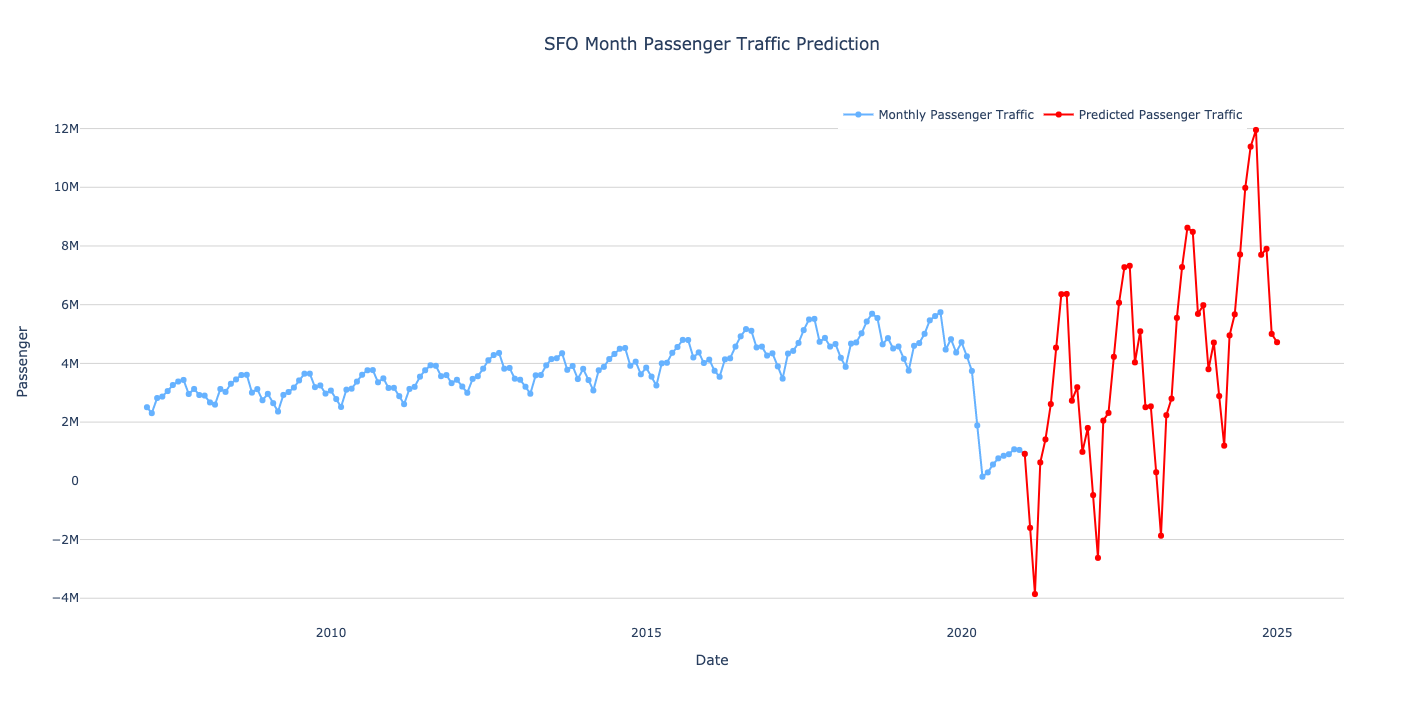
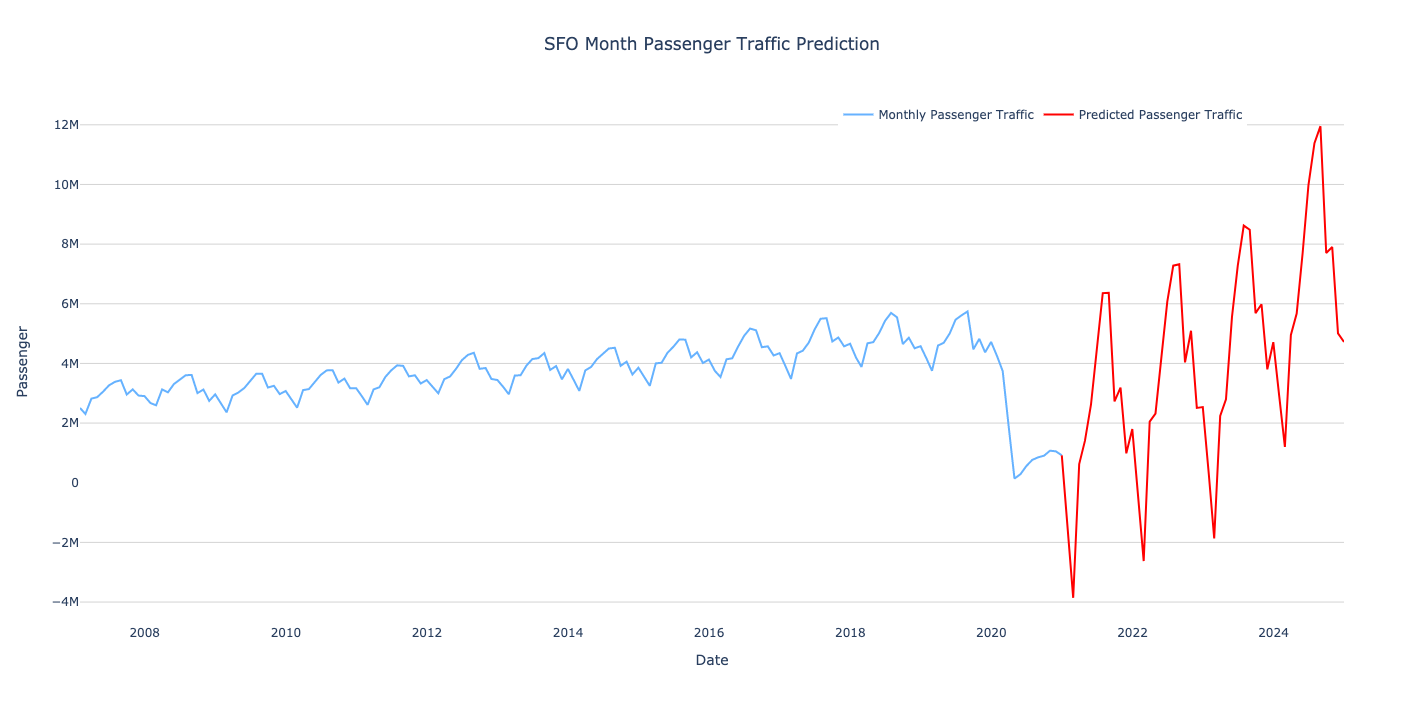
Improve visualizations

diff --git a/Part2/viz_prediction_step3.py b/Part2/viz_prediction_step3.py
@@ -19,10 +19,10 @@ df = df[df.date>'2007-01-01']
 ## Prepare Graph
 data = []
 data.append(go.Scatter(x=df['date'], y=df['pax_count'],
-              mode='lines+markers', name='Monthly Passenger Traffic',
+              mode='lines', name='Monthly Passenger Traffic',
               line=dict(color='rgb(102,178,255)')))
 data.append(go.Scatter(x=df_pred['date'],y=df_pred['prediction'],
-			  mode='lines+markers', name='Predicted Passenger Traffic',
+			  mode='lines', name='Predicted Passenger Traffic',
               	  line=dict(color='red')))
 
 ## Prepare layout

diff --git a/Part2/viz_prediction_step2.py b/Part2/viz_prediction_step2.py
@@ -19,10 +19,10 @@ df = df[df.date>'2007-01-01']
 ## Prepare Graph
 data = []
 data.append(go.Scatter(x=df['date'], y=df['pax_count'],
-              mode='lines+markers', name='Monthly Passenger Traffic',
+              mode='lines', name='Monthly Passenger Traffic',
               line=dict(color='rgb(102,178,255)')))
 data.append(go.Scatter(x=df_pred['date'],y=df_pred['pax_count'],
-			  mode='lines+markers', name='Predicted Passenger Traffic',
+			  mode='lines', name='Predicted Passenger Traffic',
               	  line=dict(color='red')))
 
 ## Prepare layout
